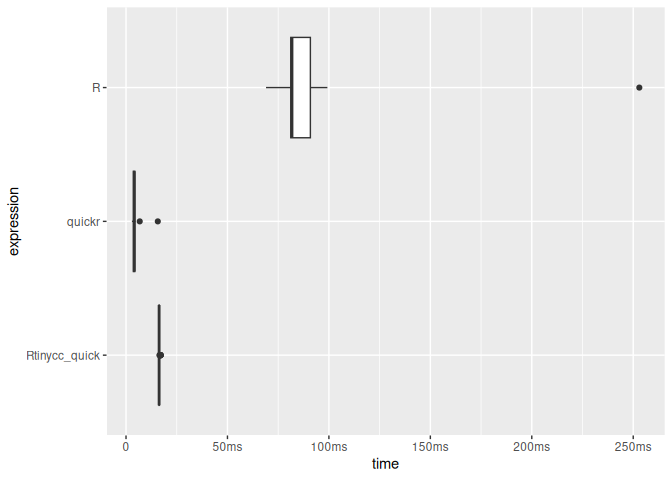
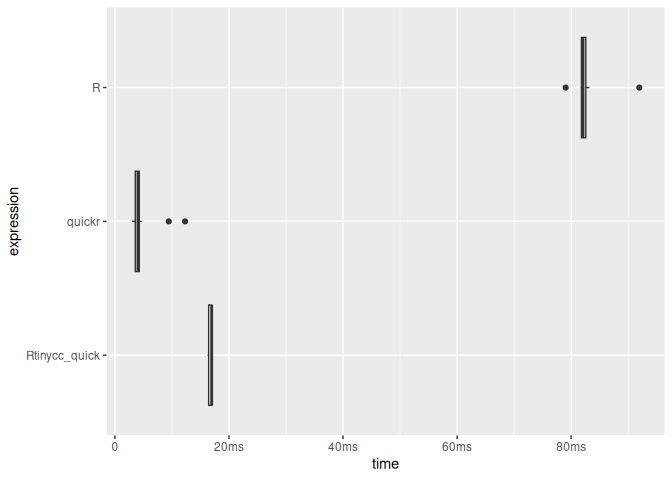
some details

diff --git a/README.md b/README.md
@@ -28,12 +28,16 @@ JIT-compiled bindings directly from R. Combined with
 provides C header parsers, it can be used to rapidly generate
 declarative bindings.
 
-We use ψ-reduction (Mullin 1988), also known as condensation in the SAC
-literature (Scholz 1994), as the core array codegen mechanism: vector
-expression trees are fused into single tight loops that never allocate
-intermediate arrays. Slices are views, reductions over expressions
-iterate element-wise, and the whole composition is resolved recursively
-at codegen time.
+Where quickr generates Fortran and relies on the Fortran compiler to
+fuse array temporaries, we generate C with guaranteed fusion at codegen
+time — we have to, because TinyCC is a single-pass compiler that does no
+optimization. The mechanism is ψ-reduction (Mullin 1988) / condensation
+(Scholz, SAC 1994): `tccq_cg_vec_elem` recursively defines the k-th
+element of any vector expression tree, so `sum(x[a:b] * w)` compiles to
+a single accumulator loop with inline index arithmetic — no slice array,
+no product array, no intermediates. Slices are pointer offsets,
+element-wise ops are inline expressions, and reductions wrap the whole
+thing in one loop body.
 
 ## How it works
 
@@ -186,7 +190,7 @@ tcc_read_cstring(ptr)
 tcc_read_bytes(ptr, 5)
 #> [1] 68 65 6c 6c 6f
 tcc_ptr_addr(ptr, hex = TRUE)
-#> [1] "0x58cf85743820"
+#> [1] "0x5895418762a0"
 tcc_ptr_is_null(ptr)
 #> [1] FALSE
 tcc_free(ptr)
@@ -217,11 +221,11 @@ through output parameters.
 ptr_ref <- tcc_malloc(.Machine$sizeof.pointer %||% 8L)
 target <- tcc_malloc(8)
 tcc_ptr_set(ptr_ref, target)
-#> <pointer: 0x58cf8694e060>
+#> <pointer: 0x58953f88b9b0>
 tcc_data_ptr(ptr_ref)
-#> <pointer: 0x58cf86989d80>
+#> <pointer: 0x589541469d40>
 tcc_ptr_set(ptr_ref, tcc_null_ptr())
-#> <pointer: 0x58cf8694e060>
+#> <pointer: 0x58953f88b9b0>
 tcc_free(target)
 #> NULL
 tcc_free(ptr_ref)
@@ -284,8 +288,8 @@ bench::mark(
 #> # A tibble: 2 × 6
 #>   expression      min   median `itr/sec` mem_alloc `gc/sec`
 #>   <bch:expr> <bch:tm> <bch:tm>     <dbl> <bch:byt>    <dbl>
-#> 1 Rtinycc       941ms    941ms      1.06   134.1MB     15.9
-#> 2 Rbuiltin      568µs    590µs   1606.      9.05KB     12.0
+#> 1 Rtinycc       1.09s    1.09s     0.918   134.1MB     7.35
+#> 2 Rbuiltin   542.41µs 570.13µs  1712.       9.05KB     6.00
 
 # For performance-sensitive code, move the loop into C and operate on arrays.
 ffi_vec <- tcc_ffi() |>
@@ -314,8 +318,8 @@ bench::mark(
 #> # A tibble: 2 × 6
 #>   expression        min   median `itr/sec` mem_alloc `gc/sec`
 #>   <bch:expr>   <bch:tm> <bch:tm>     <dbl> <bch:byt>    <dbl>
-#> 1 Rtinycc_vec    97.5µs  106.2µs     9253.    52.8KB     12.8
-#> 2 Rbuiltin_vec   17.7µs   18.4µs    45595.    78.2KB     31.9
+#> 1 Rtinycc_vec    96.7µs    104µs     9428.    52.8KB     8.21
+#> 2 Rbuiltin_vec   16.9µs   17.8µs    44275.    78.2KB    31.0
 ```
 
 ### Variadic calls (e.g. `Rprintf` style)
@@ -437,7 +441,7 @@ ffi <- tcc_ffi() |>
 
 x <- as.integer(1:100) # to avoid ALTREP
 .Internal(inspect(x))
-#> @58cf9bed95b8 13 INTSXP g0c0 [REF(65535)]  1 : 100 (compact)
+#> @5895540e7ab8 13 INTSXP g0c0 [REF(65535)]  1 : 100 (compact)
 ffi$sum_array(x, length(x))
 #> [1] 5050
 
@@ -453,7 +457,7 @@ y[1]
 #> [1] 11
 
 .Internal(inspect(x))
-#> @58cf9bed95b8 13 INTSXP g0c0 [REF(65535)]  11 : 110 (expanded)
+#> @5895540e7ab8 13 INTSXP g0c0 [REF(65535)]  11 : 110 (expanded)
 ```
 
 ## Advanced FFI features
@@ -480,15 +484,15 @@ ffi <- tcc_ffi() |>
 
 p1 <- ffi$struct_point_new()
 ffi$struct_point_set_x(p1, 0.0)
-#> <pointer: 0x58cf9e893870>
+#> <pointer: 0x58954cbc7c90>
 ffi$struct_point_set_y(p1, 0.0)
-#> <pointer: 0x58cf9e893870>
+#> <pointer: 0x58954cbc7c90>
 
 p2 <- ffi$struct_point_new()
 ffi$struct_point_set_x(p2, 3.0)
-#> <pointer: 0x58cf95bafae0>
+#> <pointer: 0x58953ed3ac20>
 ffi$struct_point_set_y(p2, 4.0)
-#> <pointer: 0x58cf95bafae0>
+#> <pointer: 0x58953ed3ac20>
 
 ffi$distance(p1, p2)
 #> [1] 5
@@ -533,9 +537,9 @@ ffi <- tcc_ffi() |>
 
 s <- ffi$struct_flags_new()
 ffi$struct_flags_set_active(s, 1L)
-#> <pointer: 0x58cf9b7d2c10>
+#> <pointer: 0x58955adf2870>
 ffi$struct_flags_set_level(s, 9L)
-#> <pointer: 0x58cf9b7d2c10>
+#> <pointer: 0x58955adf2870>
 ffi$struct_flags_get_active(s)
 #> [1] 1
 ffi$struct_flags_get_level(s)
@@ -827,7 +831,7 @@ ffi <- tcc_ffi() |>
   tcc_compile()
 
 ffi$struct_point_new()
-#> <pointer: 0x58cf8b24d5f0>
+#> <pointer: 0x589548eca070>
 ffi$enum_status_OK()
 #> [1] 0
 ffi$global_global_counter_get()
@@ -943,11 +947,11 @@ if (Sys.info()[["sysname"]] == "Linux") {
 #> # A tibble: 5 × 13
 #>   expression     min  median `itr/sec` mem_alloc `gc/sec` n_itr  n_gc total_time
 #>   <bch:expr> <bch:t> <bch:t>     <dbl> <bch:byt>    <dbl> <int> <dbl>   <bch:tm>
-#> 1 read_tabl…  50.3ms 50.51ms      19.8    6.33MB        0     2     0      101ms
-#> 2 vroom_df_…  7.17ms  7.49ms     134.     1.22MB        0     2     0       15ms
-#> 3 vroom_df_…  7.25ms  7.27ms     138.     1.22MB        0     2     0     14.5ms
-#> 4 c_read_df  21.14ms 21.38ms      46.8    1.23MB        0     2     0     42.8ms
-#> 5 io_uring_… 21.17ms 21.25ms      47.0    1.23MB        0     2     0     42.5ms
+#> 1 read_tabl… 51.72ms 52.32ms      19.1    6.33MB        0     2     0    104.6ms
+#> 2 vroom_df_…  7.27ms  7.44ms     134.     1.22MB        0     2     0     14.9ms
+#> 3 vroom_df_…  7.31ms  8.07ms     124.     1.22MB        0     2     0     16.1ms
+#> 4 c_read_df  20.96ms  21.1ms      47.4    1.23MB        0     2     0     42.2ms
+#> 5 io_uring_… 21.39ms  21.4ms      46.7    1.23MB        0     2     0     42.8ms
 #> # ℹ 4 more variables: result <list>, memory <list>, time <list>, gc <list>
 ```
 
@@ -1133,10 +1137,10 @@ print(timings)
 #> # A tibble: 4 × 13
 #>   expression            min   median `itr/sec` mem_alloc `gc/sec` n_itr  n_gc
 #>   <bch:expr>       <bch:tm> <bch:tm>     <dbl> <bch:byt>    <dbl> <int> <dbl>
-#> 1 R                624.06ms 624.72ms      1.60     782KB     0        4     0
-#> 2 quickr             3.78ms   4.18ms    239.       782KB     1.01   474     2
-#> 3 Rtinycc_quick     17.25ms  17.84ms     56.0      796KB     0      112     0
-#> 4 Rtinycc_manual_c  57.97ms  58.14ms     17.0      796KB     0       34     0
+#> 1 R                605.25ms 608.98ms      1.63     782KB    0         4     0
+#> 2 quickr             3.73ms   4.26ms    235.       782KB    2.56    459     5
+#> 3 Rtinycc_quick     17.06ms  17.42ms     57.2      796KB    0.502   114     1
+#> 4 Rtinycc_manual_c   55.7ms   56.3ms     17.6      796KB    0.504    35     1
 #> # ℹ 5 more variables: total_time <bch:tm>, result <list>, memory <list>,
 #> #   time <list>, gc <list>
 plot(timings, type = "boxplot") + bench::scale_x_bench_time(base = NULL)
@@ -1180,13 +1184,15 @@ timings_roll_mean <- bench::mark(
   Rtinycc_quick = quick_tcc_roll_mean(x, weights = weights),
   min_time = 1
 )
+#> Warning: Some expressions had a GC in every iteration; so filtering is
+#> disabled.
 timings_roll_mean
 #> # A tibble: 3 × 6
 #>   expression         min   median `itr/sec` mem_alloc `gc/sec`
 #>   <bch:expr>    <bch:tm> <bch:tm>     <dbl> <bch:byt>    <dbl>
-#> 1 R                 69ms  69.01ms      14.5     124MB   130.  
-#> 2 quickr           2.9ms   4.05ms     253.      781KB     2.04
-#> 3 Rtinycc_quick   16.2ms  16.31ms      61.0     796KB     0
+#> 1 R              79.04ms  82.08ms      12.1     124MB    12.1 
+#> 2 quickr          2.98ms   4.03ms     252.      781KB     2.00
+#> 3 Rtinycc_quick  16.24ms  16.97ms      59.5     796KB     0
 
 timings_roll_mean$expression <- factor(names(timings_roll_mean$expression), rev(names(timings_roll_mean$expression)))
 plot(timings_roll_mean, type = "boxplot") + bench::scale_x_bench_time(base = NULL)
@@ -1240,11 +1246,11 @@ ffi <- tcc_ffi() |>
 o <- ffi$struct_outer_new()
 i <- ffi$struct_inner_new()
 ffi$struct_inner_set_a(i, 42L)
-#> <pointer: 0x58cfa4887f60>
+#> <pointer: 0x5895583ff350>
 
 # Write the inner pointer into the outer struct
 ffi$struct_outer_in_addr(o) |> tcc_ptr_set(i)
-#> <pointer: 0x58cfa0d44630>
+#> <pointer: 0x5895443ce8f0>
 
 # Read it back through indirection
 ffi$struct_outer_in_addr(o) |>
@@ -1273,9 +1279,9 @@ ffi <- tcc_ffi() |>
 
 b <- ffi$struct_buf_new()
 ffi$struct_buf_set_data_elt(b, 0L, 0xCAL)
-#> <pointer: 0x58cfa304b4e0>
+#> <pointer: 0x589559ff05b0>
 ffi$struct_buf_set_data_elt(b, 1L, 0xFEL)
-#> <pointer: 0x58cfa304b4e0>
+#> <pointer: 0x589559ff05b0>
 ffi$struct_buf_get_data_elt(b, 0L)
 #> [1] 202
 ffi$struct_buf_get_data_elt(b, 1L)
